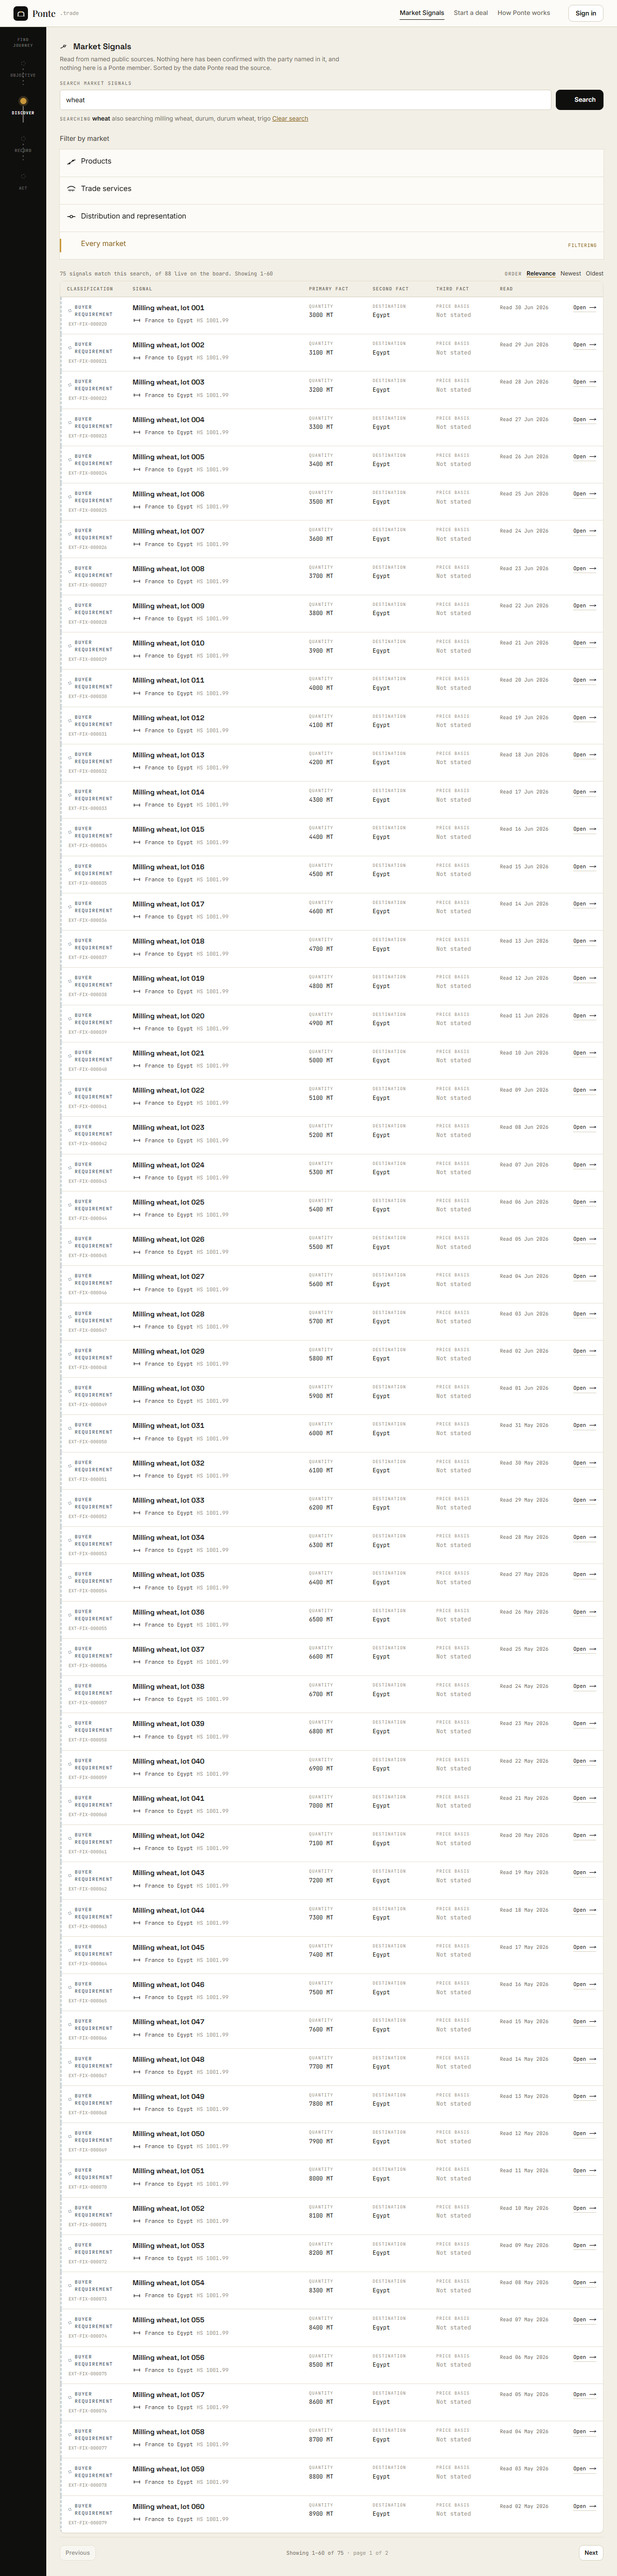
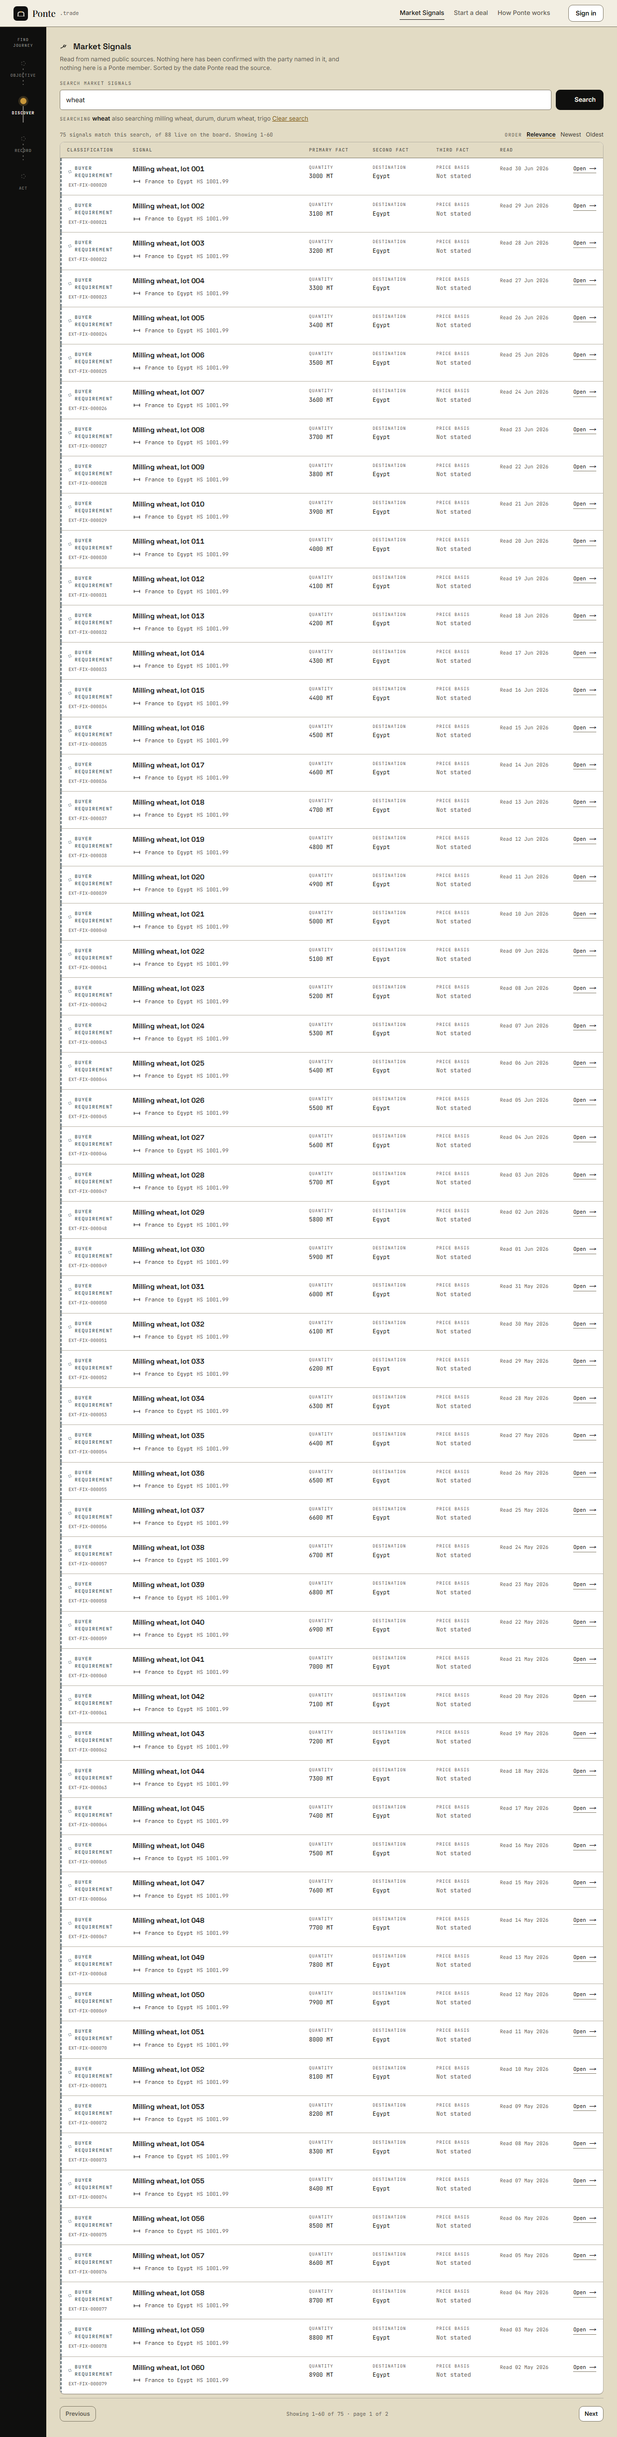
Record the inventory ticket, the gate defect, and recapture the evidence
PL-020 for the genuine Trade services and Distribution inventory the
interface now correctly declines to advertise. The controls appear on
their own once the counts are non-zero; no code change will close it.

LB-007 for a gate that cannot pass anywhere. check-bridge-invariance.mjs
takes its baseline from merge-base with origin/main and requires four
Bridge declarations to differ from it. Now that PR #104 has merged, the
baseline contains the change the check demands. Proved on pristine
origin/main at 7419872 in a detached worktree: the same four problems.
Given the pre-Stage-1 baseline it passes. Not fixed here: what that check
asserts is ADR-0015's authority.

Also corrects two e2e assertions that encoded the superseded decision,
and re-captures every frame. The earlier captures in this branch were
taken against a stale next start still bound to 3100 from an earlier run,
so its CSS was one build behind.

Changed region(s): [[0.0312, 0.0, 1.0, 1.0]]

diff --git a/e2e/market-signals-search.spec.ts b/e2e/market-signals-search.spec.ts
@@ -507,10 +507,24 @@ test("an incomplete classification stays visible under a search", async ({ page 
   // search: a partial coverage explains its own blind spot, and it does so
   // whether or not any record came back.
   await page.setViewportSize(DESKTOP);
+  /*
+   * This asserted the board PRINTED its coverage measurement. It no longer does,
+   * and that is the decision rather than a regression: a sentence counting how
+   * many records carry a classification is Ponte's implementation, not a
+   * customer's business.
+   *
+   * What must still hold is everything that measurement protected. The records
+   * are real and are shown; the whole-board claim is absent; and no version of
+   * the technical explanation survives.
+   */
   await open(page, `${FIXTURE}?q=wheat&state=partial&${TWO_FAMILIES}`);
   const body = await page.locator(".sec").first().innerText();
-  expect(body).toContain("This filter can see");
+  await expect(records(page).first()).toBeVisible();
   expect(body).not.toContain("No signal is currently live on the public board");
+  expect(body).not.toContain("This filter can see");
+  expect(body).not.toContain("Ponte cannot confirm how much");
+  expect(body).not.toContain("taxonomy");
+  expect(body).not.toContain("classified");
   await shot(page, "15-desktop-partial-coverage-with-search");
 
   await open(page, `${FIXTURE}?q=99999999&state=unavailable`);

diff --git a/docs/launch/LAUNCH-BLOCKERS.md b/docs/launch/LAUNCH-BLOCKERS.md
@@ -14,6 +14,7 @@ Discovery alone does not make an issue a blocker. The repository owner has final
 | LB-006 | Market Signals could not be searched, and most of the inventory could not be reached | 29 July 2026 | DISCOVER: `/[locale]/market-signals`, the entry route into the commercial inventory | Classified P0 by the repository owner. Verified on `main` at `0e8ed3b`: `/market-signals` had structured family and category filters and **no text input of any kind**. A member could not type a product name, an HS code, a country or a trade term anywhere on the page. `searchSignalInventory()` already searched the whole eligible table and already reported a true total, and the board printed "3,491 signals" beside sixty of them with the sentence "the remaining 3,431 are counted but not yet reachable from this page" - the page said so itself. `signalFilterHref()` serialised five parameters, so every filter link discarded the direction, market, quantity and sort. The inventory was therefore commercially unusable: finding a relevant opportunity required knowing Ponte's taxonomy and then reading a list | Giuseppe Funaro | **Open, pending production verification.** Search, relevance ordering, pagination, a shared URL contract and a search-specific empty state are implemented, and the predicate is now **executed** against production PostgREST rather than only asserted as a string. What remains is not repository work: the branch has to be deployed and the search exercised by a member on the live board. The `pg_trgm` index migration is written and **not applied**, and deliberately is not required - the search is correct without it and only faster with it | This PR | `npm run verify` passes end to end. **333 new assertions across 99 cases in five suites**: 77 on the search domain (normalisation, the alias vocabulary and its substring-safety corpus, the relevance bands, the injection case), **65 on search scope** (qualifiers surviving alias expansion, the predicate bound, the four accent behaviours kept apart), 91 on the URL contract (round-trip, every reset rule, legacy URLs, offset clamping), 77 on the rendered controls and the empty-state matrix, 23 on the inventory contract including the public-column containment that is the whole disclosure argument. Playwright: **17 checks and 16 frames** at 1280x900 and 390x844 in `docs/codex/audits/constitution-rebuild/evidence/market-signals-search/`, each capture beside an assertion. **Executed against production PostgREST, read-only, 30 July 2026** (`npx tsx scripts/verify-signal-search.ts`; evidence `docs/codex/audits/market-signals-search/2026-07-30-postgrest-verification.txt`): the nested `or=(and(or(...),or(...)))` predicate parses and executes; 3,458 eligible signals; `gas oil` matched 68 including EN590-titled records; the qualifier fix is proved on live data, `diesel` = 68 narrowing to `diesel cargo rotterdam` = 0; the largest predicate the caps permit (3,558 characters) was accepted; wall-clock 184 to 525 ms with no index applied; select only, no writes. **Three defects the string assertions had missed were found and fixed by this audit**: alias expansion made qualifiers optional, the term cap did not bound the all-terms branch, and the accent claim was true of the in-memory matcher and false of the database. **Outstanding:** production deployment and a search run against live records |
 | LB-004 | The Deal Room Integrity pre-flight reads a `verifications` column production does not have | 2026-07-29 | PROGRESS: the protected invitation, and the Ponte Integrity statement shown to an invitee | `app/[locale]/deal-rooms/[roomId]/invitation/page.tsx:71` selects `type` from `verifications`. Production has 24 columns on that table and `type` is not one of them; every other reader in the codebase selects `purpose` for the same purpose. PostgREST refuses an unknown column, so `evidenceRows` is null, `rows` is `[]`, and "What Ponte has checked" renders "Nothing has been checked against an external source" for every member including a fully verified one. Same defect class as the `profile_id`/`user_id` error the first owner review caught in this file: the filter was corrected, the select list was not re-checked against production. Not detectable locally - there is no non-production database (PL-002). Evidence: `docs/codex/audits/deal-room/GATE-C-PREFLIGHT-2026-07-29.md` section 2 | Repository owner | **Classified a Launch Blocker by the owner on 29 July 2026, and fixed on this branch.** It was never a fail-open - the band under-reported rather than over-reported, and the sanctions gate is inside `deal_room_invite()`, which reads `sanctions_hits` directly - but it made a named acceptance criterion of #97 inert on first activation. The select list is now the exported constant `VERIFICATION_EVIDENCE_COLUMNS` in `lib/deal-room/integrity.ts`, naming `purpose`, and the `kind:` mapping reads `row.purpose`. Nothing else about verification was touched | #105 | **Resolved.** `lib/deal-room/__tests__/integrity.test.ts` gains three checks: every column the constant names exists in `VERIFICATIONS_COLUMNS`, which is the production table as the Gate C preflight observed it; the constant asks for `purpose` and never for `type`; and the surface selects through the constant rather than its own literal, still maps `row.purpose`, and no longer mentions `row.type`. Proved to catch the defect by reintroducing it - two assertions failed naming the column. 30 assertions in that suite, `npm run verify` exit 0. Found by the Gate C production preflight, before any SQL was applied. |
 | LB-005 | `20260729b_deal_room_rls.sql` cannot be applied: it grants execute on a `deal_room_invite` signature it has itself dropped | 2026-07-30 | PROGRESS: the whole Deal Room permission boundary. Every RLS policy and all 21 command functions are in this file | Postgres refused the file and rolled it back: `ERROR: 42883: function public.deal_room_invite(uuid, text, text, text, timestamp with time zone) does not exist`. The owner's final trust review took `deal_room_invite()` from five arguments to three by removing `p_role` and `p_class`, and dropped the superseded overload; the `grant execute` block at line 1709 was never updated, so the file grants on a signature it drops. Every grant line was audited against its declared signature programmatically: 21 functions declared, exactly one broken grant, no other arity disagrees. Nothing caught it - `rls-contract.test.ts` scans the file as text for command names and member write policies, and does not compare grant signatures against the functions the same file declares. Evidence: `docs/codex/audits/deal-room/GATE-C-APPROVAL-1-2026-07-30.md` section 3.2 | Repository owner | **Open.** The correction is one line, `(uuid, text, timestamptz)`, but it changes the file's SHA-256, so it needs its own authorisation and the new checksum must be recorded in the preflight audit before the file is applied. Production consequence right now: 15 Deal Room tables exist with RLS enabled and **zero policies**, so every table returns zero rows and refuses every write - fail-closed, and the Deal Room is unreachable | — | Not resolved. Found by applying Gate C Approval 1; `20260729a` applied and verified, `20260729b` rolled back, `20260729c` not attempted. |
+| LB-007 | `npm run verify` cannot pass on `main` or on any branch merged with it | 30 July 2026 | The mandatory verification gate, so every pull request and every future change | `scripts/check-bridge-invariance.mjs` takes its baseline from `git merge-base HEAD origin/main` and requires four Bridge declarations to DIFFER from it, per ADR-0015 section S-3. That held while the Stage 1 change was on a branch. Now that PR #104 has merged, the baseline contains the change the check demands, so the check reports all four as "was NOT changed" and exits non-zero. The check is self-invalidating: it fails for whoever merges `main` next, and it fails on `main` itself. **Proved on pristine `origin/main` at `7419872`** in a detached worktree with nothing of this branch in it: `node scripts/check-bridge-invariance.mjs` reports the same four problems. Given a correct pre-Stage-1 baseline it passes: `node scripts/check-bridge-invariance.mjs 7f979e0d` reports 479 identical non-colour declarations and the 15 intended colour changes. Every other gate step passes on both trees | Giuseppe Funaro | OPEN. **Not fixed here, deliberately.** The remedy is one line - pin the baseline to the pre-Stage-1 commit `7f979e0d` instead of resolving it dynamically - but what that check asserts is ADR-0015's authority, and changing the meaning of another workstream's acceptance check is an owner decision, not an agent's. Recorded rather than worked around | Not started | Reproduction and the passing-baseline comparison are recorded in this row. Discovered while running the gate for LB-006 |
 
 ## Resolved blockers
 
